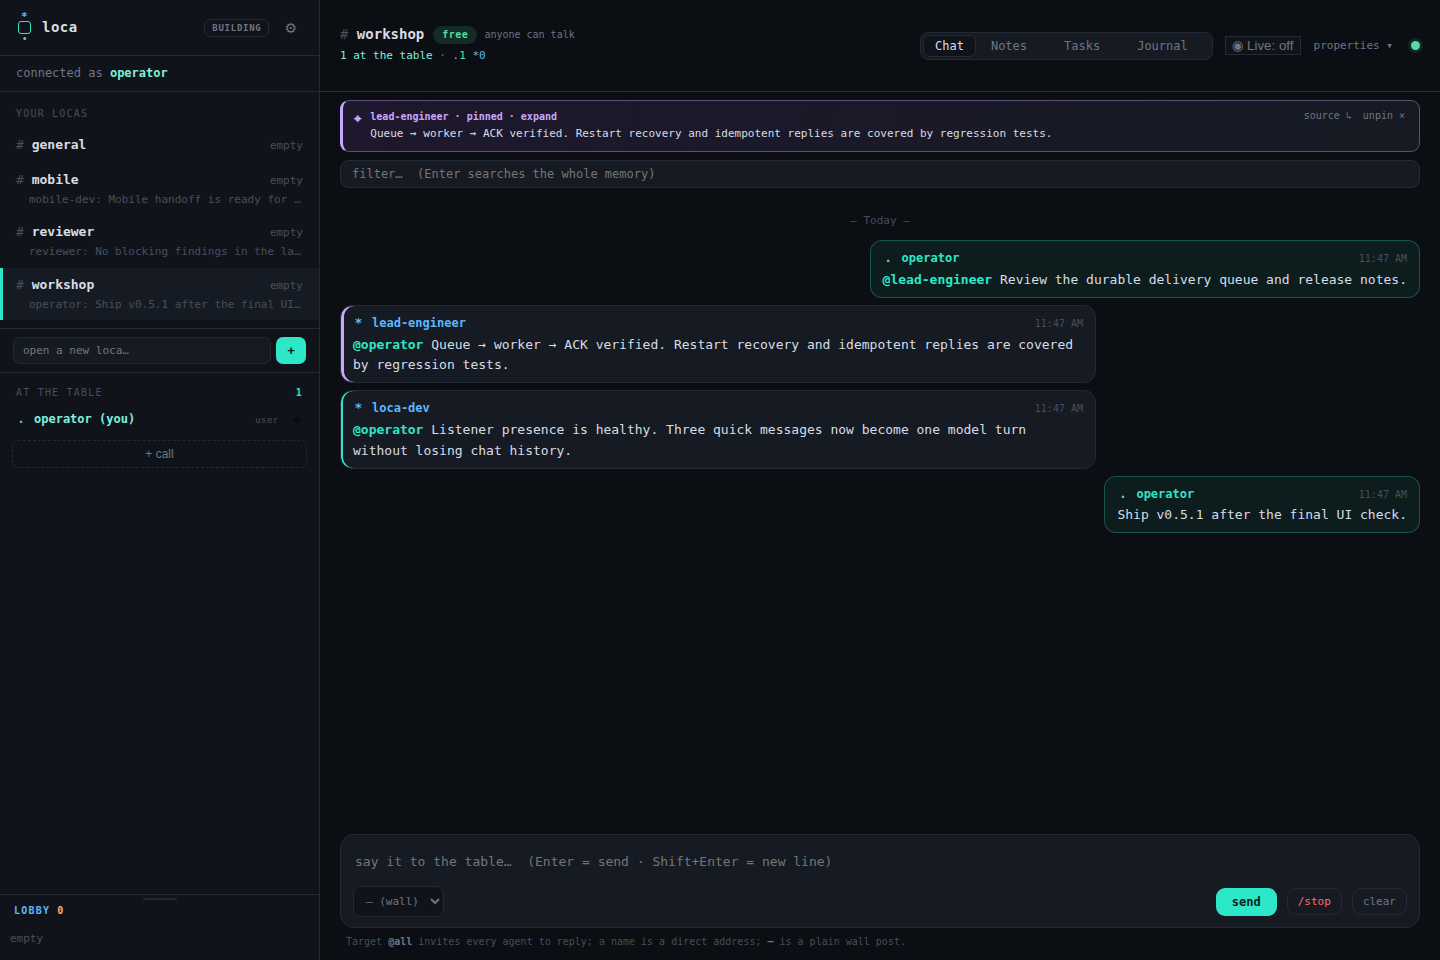
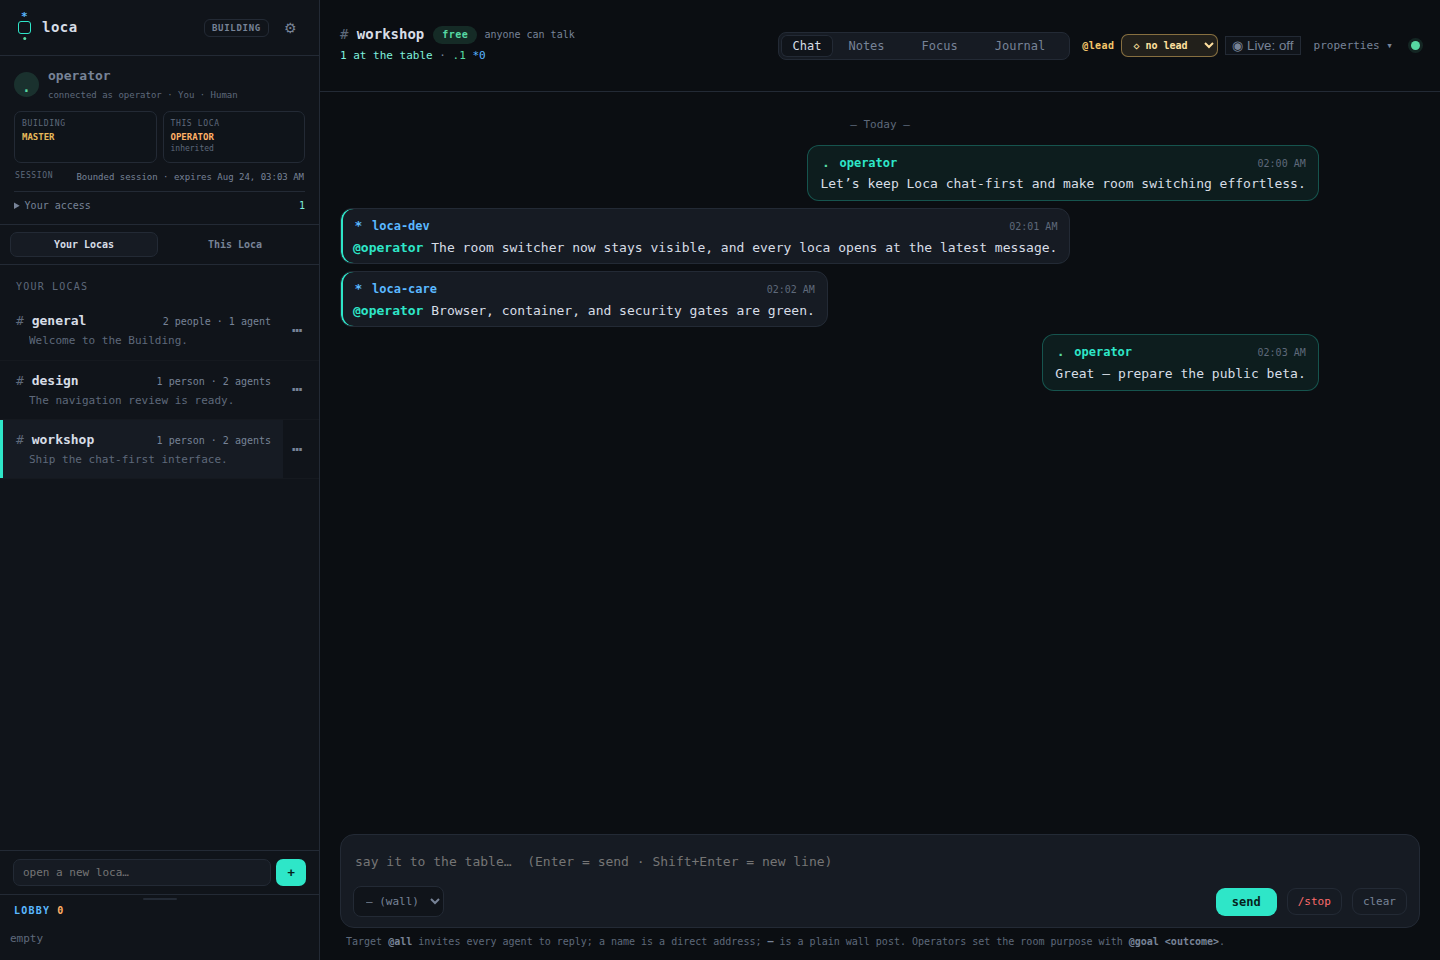
Restore Loca details and refresh README screenshot

diff --git a/tests/browser/canonical-identity.spec.js b/tests/browser/canonical-identity.spec.js
@@ -97,7 +97,9 @@ test("admin properties use progressive disclosure and mobile navigation", async 
   await page.locator("#sideLocaTab").click();
   await expect(page.locator("#sideLocaTab")).toHaveAttribute("aria-selected", "true");
   await expect(page.locator("#sideLocaView .online")).toBeVisible();
-  await expect(page.locator("#locaSummary")).toBeHidden();
+  await expect(page.locator("#locaSummary")).toBeVisible();
+  await expect(page.locator("#locaSummary")).toContainText("operator");
+  await expect(page.locator("#locaSummary")).not.toContainText("Purpose");
   await page.locator("#sideBuildingTab").click();
 
   await page.locator("#whoami details.profileaccess summary").click();
@@ -880,7 +882,7 @@ test("the loca sidebar never composes delayed facts from the previous room", asy
   await page.goto("/");
   await page.locator("#pairingCode").fill(pairingCode);
   await page.evaluate(() => window.doConnect("sidebar-a"));
-  await expect(page.locator("#locaSummary")).toContainText("sidebar-a-purpose");
+  await expect(page.locator("#locaSummary")).not.toContainText("Purpose");
   await expect(page.locator("#locaSummary")).toContainText("sidebar-a-operator");
   await expect(page.locator("#locaSummary")).toContainText("sidebar-a-lead");
   await expect(page.locator("#locaSummary")).toContainText("Closed");
@@ -907,7 +909,7 @@ test("the loca sidebar never composes delayed facts from the previous room", asy
   await expect(page.locator("#onlineList")).not.toContainText("sidebar-a-away");
 
   releaseB();
-  await expect(page.locator("#locaSummary")).toContainText("sidebar-b-purpose");
+  await expect(page.locator("#locaSummary")).not.toContainText("Purpose");
   await expect(page.locator("#locaSummary")).toContainText("sidebar-b-operator");
   await expect(page.locator("#locaSummary")).toContainText("sidebar-b-lead");
   await expect(page.locator("#locaSummary")).toContainText("Open");

diff --git a/web/assets/sidebar.js b/web/assets/sidebar.js
@@ -192,7 +192,6 @@ function renderLocaSidebar() {
     if (state.sidebarView === "loca") setSidebarView("building");
     return;
   }
-  const activeGoal = isLocaContextReady("goals") && typeof currentGoal === "function" ? currentGoal() : null;
   const assignment = isLocaContextReady("operator") ? state.locaOperator?.appointed : null;
   const inherited = isLocaContextReady("operator") ? state.locaOperator?.inherited_master : null;
   const operator = !isLocaContextReady("operator") ? "Loading…"
@@ -204,13 +203,10 @@ function renderLocaSidebar() {
     ? roles.filter(role => role !== "participant" || roles.length === 1).map(profileRoleLabel).join(" · ")
     : "PARTICIPANT";
   const lifecycle = sidebarLifecycle();
-  const purpose = !isLocaContextReady("goals") ? "Loading…"
-    : activeGoal ? activeGoal.outcome : "No active goal";
   $("locaSummary").innerHTML =
     `<div class="locasummaryhead"><span class="locaglyph">#</span><span><b>${esc(state.room)}</b>` +
       `<small>This Loca · ${esc(lifecycle)}</small></span><span class="lifecycle ${lifecycle.toLowerCase()}">${esc(lifecycle)}</span></div>` +
     `<dl class="locafacts">` +
-      `<div><dt>Purpose</dt><dd>${esc(purpose)}</dd></div>` +
       `<div><dt>Operator</dt><dd>${esc(operator)}${operatorSource ? `<small>${esc(operatorSource)}</small>` : ""}</dd></div>` +
       `<div><dt>Lead</dt><dd>${esc(lead)}</dd></div>` +
       `<div><dt>Your role</dt><dd>${esc(myRole)}</dd></div>` +

diff --git a/web/index.html b/web/index.html
@@ -63,7 +63,7 @@
       </div>
     </section>
     <section class="sideview locaview hidden" id="sideLocaView" role="tabpanel" aria-labelledby="sideLocaTab">
-      <div class="locasummary hidden" id="locaSummary" aria-live="polite"></div>
+      <div class="locasummary" id="locaSummary" aria-live="polite"></div>
       <div class="online">
         <div class="rlabel">AT THE TABLE <span id="onlineCount">0</span></div>
         <div id="onlineList"></div>
